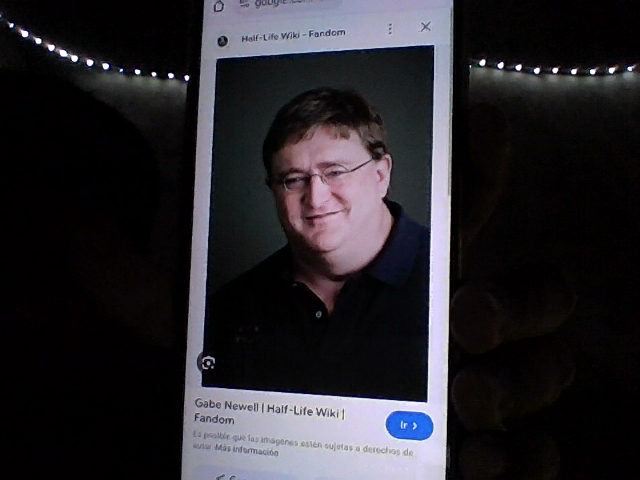
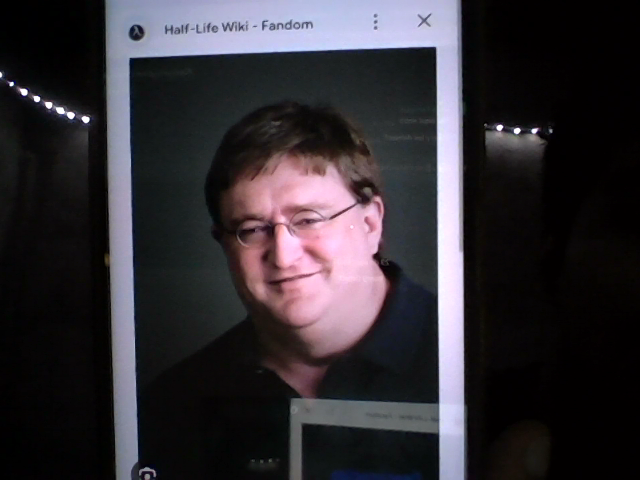
Ajustes

diff --git a/ui/escaneoRostro.py b/ui/escaneoRostro.py
@@ -34,13 +34,14 @@ class EscanerRostro(QtWidgets.QWidget):
         self.layout = QtWidgets.QVBoxLayout(self)
         self.layout.addWidget(QtWidgets.QLabel("Soy la pantalla de escaner"))
 
-        scroll_area = QScrollArea()
-        self.layout.addWidget(scroll_area)
+        # scroll_area = QScrollArea()
+        # self.layout.addWidget(scroll_area)
         # self.foto_capturada = None
         self.encoding_foto_capturada = None
         self.encodings_db = list()
         self.nombres_personas_db = list()
         self.ids_personas_db = list()
+        self.ids_personas_indetificadas = list()
 
         self.dbManager = DBManager()
         self.cargarDatosPersonas()
@@ -61,18 +62,18 @@ class EscanerRostro(QtWidgets.QWidget):
 
         self.frame_camera = QLabel(self)
         self.cam_live = QLabel(self)
-        self.label_foto_capturada = QLabel(self)
+        # self.label_foto_capturada = QLabel(self)
         # self.foto_de_camara = QLabel(self)
         self.input_nombre_foto = QLineEdit()
         self.input_nombre_foto.setPlaceholderText("Introduzca el nombre de la foto")
         self.input_nombre_foto.textChanged.connect(lambda text: print(f"El texto cambio {text}"))
         self.input_nombre_foto.text()
 
-        content_widget = QWidget()
-        content_layout = QtWidgets.QVBoxLayout(content_widget)
-        content_layout.addWidget(QLabel(self.label_foto_capturada))
+        # content_widget = QWidget()
+        # content_layout = QtWidgets.QVBoxLayout(content_widget)
+        # content_layout.addWidget(QLabel(self.label_foto_capturada))
 
-        scroll_area.setWidget(content_widget)
+        # scroll_area.setWidget(content_widget)
         # self.layout.addWidget(self.label_foto_capturada)
         self.layout.addWidget(self.cam_live, alignment=Qt.AlignCenter)
         # self.layout.addWidget(self.foto_de_camara)
@@ -246,8 +247,8 @@ class EscanerRostro(QtWidgets.QWidget):
 
                 for (top, right, bottom, left), encoding in zip(face_locations, face_encodings):
 
-                    resultados = face_recognition.compare_faces(self.encodings_db, encoding)
                     # resultados = []
+                    resultados = face_recognition.compare_faces(self.encodings_db, encoding)
 
                     self.encoding_foto_capturada = encoding
 
@@ -255,6 +256,14 @@ class EscanerRostro(QtWidgets.QWidget):
                         index = resultados.index(True)
                         nombre = self.nombres_personas_db[index]
                         color = (0, 255, 0)
+                        id = self.ids_personas_db[index]
+                        nombre += ", ID: " + str(id)
+                        self.boton_guardar_foto.setEnabled(False)
+                        if id in self.ids_personas_db:
+                            pass
+                        else:
+                            self.ids_personas_indetificadas.appen(self.ids_personas_db[index])
+
                     else:
                         nombre = "Desconocido"
                         color = (0, 0, 255)
@@ -345,7 +354,7 @@ class EscanerRostro(QtWidgets.QWidget):
             h, w, ch = rgb.shape
             qimg = QImage(rgb.data, w, h, ch * w, QImage.Format_RGB888)
             pixmap = QPixmap.fromImage(qimg)
-            self.label_foto_capturada.setPixmap(pixmap)
+            # self.label_foto_capturada.setPixmap(pixmap)
 
     def guardarFoto(self):
         self.cap.release()
@@ -360,7 +369,7 @@ class EscanerRostro(QtWidgets.QWidget):
             h, w, ch = rgb.shape
             qimg = QImage(rgb.data, w, h, ch * w, QImage.Format_RGB888)
             pixmap = QPixmap.fromImage(qimg)
-            self.label_foto_capturada.setPixmap(pixmap)
+            # self.label_foto_capturada.setPixmap(pixmap)
             print('self.encoding_foto_capturada: ', self.encoding_foto_capturada)
             self.modal = NombrarFotoCapturada(self, data=pixmap, 
                                               imagen=self.frame_camera, 
@@ -393,5 +402,9 @@ class EscanerRostro(QtWidgets.QWidget):
 
         print('self.encodings_db: ', type(self.encodings_db))
         print('self.getPersonas: ', self.getPersonas)
+
+    def onDestroy(self):
+        self.cap.release()
+        pass
 
     # def abrirModalFotoCapturada(self):

diff --git a/ui/main_window.py b/ui/main_window.py
@@ -70,12 +70,13 @@ class MainWindow(QtWidgets.QMainWindow):
         self.setCentralWidget(self.stack)
 
 
+        # self.pantallaEscaneoRostro = EscanerRostro()
+        self.pantallaMostrandose = EscanerRostro()
         # Agregar pantallas
-        self.escaneoRostro = EscanerRostro()
-        self.stack.addWidget(self.escaneoRostro)
+        self.stack.addWidget(self.pantallaMostrandose)
 
         # Mostrar esa pantalla
-        self.stack.setCurrentWidget(self.escaneoRostro)
+        self.stack.setCurrentWidget(self.pantallaMostrandose)
         
         # self.setMaximumHeight(self.medidas_pantalla.height()) 
 
@@ -147,6 +148,10 @@ class MainWindow(QtWidgets.QMainWindow):
         self.text.setText(f"Cálculo: {valor}")
 
     def mostrarVistaHistorial(self):
+
+        #Esto hace que la camara se libere en caso de que la pantalla anterior sea la de escaneo
+        self.pantallaMostrandose.destroy()
+        
         print("Mostrando la vista de historial")
         # Agregar pantallas
         self.historial = Historial()
